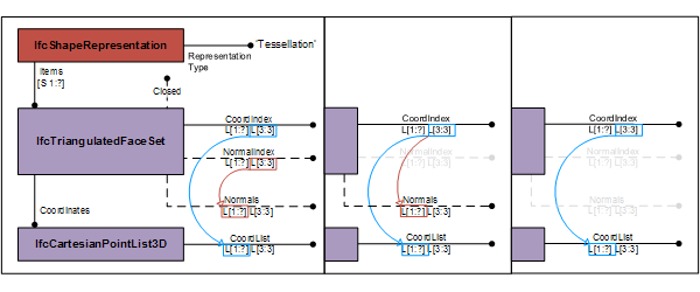
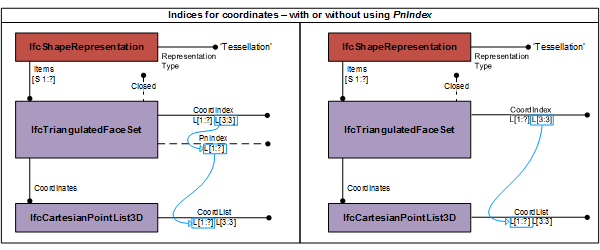
documentation updates to triangulation
including replacement of utdated figures

diff --git a/docs/schemas/resource/IfcGeometricModelResource/Entities/IfcTriangulatedFaceSet.md b/docs/schemas/resource/IfcGeometricModelResource/Entities/IfcTriangulatedFaceSet.md
@@ -1,6 +1,6 @@
 # IfcTriangulatedFaceSet
 
-The _IfcTriangulatedFaceSet_ is a tessellated face set with all faces being bound by triangles. The faces are constructed by implicit polylines defined by three Cartesian points. Depending on the value of the attribute _Closed_ the instance of _IfcTriangulatedFaceSet_ represents:
+The _IfcTriangulatedFaceSet_ is a tessellated face set with all faces being bound by triangles. The faces are constructed by implicit polylines defined by three Cartesian points. Depending on the value of the inherited attribute _Closed_ the instance of _IfcTriangulatedFaceSet_ represents:
 
 * if TRUE, a boundary represention (or B-rep);
 * if FALSE, a face based surface representation.
@@ -12,11 +12,11 @@ The coordinates of each point are provided by a one-based index into an ordered 
 
 Depending on the provision of _PnIndex_ the indices point either directly into the _IfcCartesianPointList3D_ referenced by _Coordinates_ defined at the supertype _IfcTessellatedFaceSet_, or they point into the _PnIndex_ where the integer values at that position provides the location of the coordinate values within the _IfcCartesianPointList3D_. See Figure 1 for the handling of point index.
 
-!["PnIndex"](../../../../figures/ifctriangulatedfaceset_03.png "Figure 1 &mdash; Use of _PnIndex_")
+!["IfcTriangulatedFaceSet_01"](../../../../figures/ifctriangulatedfaceset_03.png "Figure 1 &mdash; Use of _PnIndex_")
 
 See Figure 2 for using the _IfcTriangulatedFaceSet_ without (as default) and with using the _PnIndex_.
 
-!["IfcTriangulatedFaceSet_01"](../../../../figures/ifctriangulatedfaceset_01.png "Figure 2 &mdash; Triangulated face set")
+!["IfcTriangulatedFaceSet_02"](../../../../figures/ifctriangulatedfaceset_01.png "Figure 2 &mdash; Triangulated face set")
 
 Optionally normals can be provided. Only normals per vector are supported allowing for visually curved triangles when the three normals of the corresponding three vertices of a triangle are not co-linear to the normal of the triangular face. If they are identical, normals shall be omited.
 
@@ -24,7 +24,7 @@ Optionally normals can be provided. Only normals per vector are supported allowi
 
 Normals are provided by the two-dimensional list _Normals_, where
 
-* the first dimension of the two-dimensional list addresses the corresponding list of vertex indices of the triangular faces; 
+* the first dimension of the two-dimensional list addresses the corresponding list of vertex indices of the triangular faces;
 * the second dimension of the two-dimensional list provides exactly three real values to determine the direction of the normal at this vertex of the triangle.
 
 The indices in the _CoordIndex_ point into the list of _Normals_. The indices of _CoordIndex_ are applied to both points, either directly directly, or via the _PnIndex_ and normals. See Figure 3 for handling of normals.
@@ -61,7 +61,7 @@ Figure 4 shows the use of _IfcTriangulatedFaceSet_ without annotation. The diagr
 { .spec-head}
 Informal Propositions:
 
-1. If _Closed_ = TRUE, the same topological constraints as imposed by an faceted boundary representation shall be safisfied. In particular: 
+1. If _Closed_ = TRUE, the same topological constraints as imposed by an faceted boundary representation shall be safisfied. In particular:
     * each face shall be unique;
     * each edge shall be used by exactly two boundaries of faces;
     * the topological normal at each point on the boundary of the triangulated face set shall point away from the mater ial of the solid.
@@ -69,16 +69,13 @@ Informal Propositions:
 ## Attributes
 
 ### Normals
-An ordered list of three directions for normals. It is a two-dimensional list of directions provided by three parameter 
+An ordered list of three directions for normals. It is a two-dimensional list of directions provided by three parameter
 values.
 * The first dimension corresponds to the vertex indices of the _Coordindex_
 * The second dimension has exactly three values, [1] the x-direction, [2] the y-direction and [3] the z-directions
 
-### Closed
-Indication whether the _IfcTriangulatedFaceSet_ is a closed shell or not. If omited no such information can be provided.
-
 ### CoordIndex
-Two-dimensional list for the indexed-based triangles, where 
+Two-dimensional list for the indexed-based triangles, where
 * The first dimension represents the triangles (from 1 to N)
 * The second dimension has exactly three values representing the indices to three vertex points (from 1 to 3).
 

diff --git a/docs/schemas/resource/IfcGeometricModelResource/Entities/IfcPolygonalFaceSet.md b/docs/schemas/resource/IfcGeometricModelResource/Entities/IfcPolygonalFaceSet.md
@@ -2,14 +2,13 @@
 
 The _IfcPolygonalFaceSet_ is a tessellated face set with all faces being bound by polygons. The planar faces are constructed by implicit polylines defined by three or more Cartesian points. Each planar face is defined by an instance of _IfcIndexedPolygonalFace_, or in case of faces with inner loops by _IfcIndexedPolygonalFaceWithVoids_.
 
-Depending on the value of the attribute _Closed_ the instance of _IfcPolygonalFaceSet_ represents:
+Depending on the value of the inherited attribute _Closed_ the instance of _IfcPolygonalFaceSet_ represents:
 
-* if TRUE, a boundary represention (or B-rep);
+* if TRUE, a boundary representation (or B-rep);
 * if FALSE, a face based surface representation.
 
-
-
-The attribute _Faces_ refers to a list of _IfcIndexedPolygonalFace_'s having an one-based _CoordIndex_ that provides three or more indices. If the face has inner loops, the _IfcIndexedPolygonalFaceWithVoids_ has a two-dimensional, one-based list, where:* the first dimension of the two-dimensional list addresses the list of inner loops;
+The attribute _Faces_ refers to a list of _IfcIndexedPolygonalFace_'s having an one-based _CoordIndex_ that provides three or more indices. If the face has inner loops, the _IfcIndexedPolygonalFaceWithVoids_ has a two-dimensional, one-based list, where:
+* the first dimension of the two-dimensional list addresses the list of inner loops;
 * the second dimension of the two-dimensional list provides three or more indices each being a vertex of the planar polygon representing the inner loop.
 
 Depending on the provision of _PnIndex_ the indices point either directly into the _IfcCartesianPointList3D_ referenced by _Coordinates_ defined at the supertype _IfcTessellatedFaceSet_, or they point into the _PnIndex_ where the integer values at that position provides the location of the coordinate values within the _IfcCartesianPointList3D_. See Figure 1 for the handling of point index.
@@ -26,12 +25,12 @@ Depending on the provision of _PnIndex_ the indices point either directly into t
  <td>
   <p>Figure 2 shows an <em>IfcFacetedFaceSet</em> represented by<br><br></p>
 <tt class="spf">
-#1 <em>IfcIndexedPolygonalFace</em>: ((1, 2, 3, 4)
-#2 <em>IfcIndexedPolygonalFace</em>: ((6, 2, 3, 7)
-#3 <em>IfcIndexedPolygonalFace</em>: ((7, 3, 4, 8)
-#4 <em>IfcIndexedPolygonalFace</em>: ((8, 4, 1, 5)
-#5 <em>IfcIndexedPolygonalFace</em>: ((1, 4, 3, 2)
-#6 <em>IfcIndexedPolygonalFace</em>: ((6, 7, 8, 5)
+#1 <em>IfcIndexedPolygonalFace</em>: ((1, 2, 6, 5)<br/>
+#2 <em>IfcIndexedPolygonalFace</em>: ((6, 2, 3, 7)<br/>
+#3 <em>IfcIndexedPolygonalFace</em>: ((7, 3, 4, 8)<br/>
+#4 <em>IfcIndexedPolygonalFace</em>: ((8, 4, 1, 5)<br/>
+#5 <em>IfcIndexedPolygonalFace</em>: ((1, 4, 3, 2)<br/>
+#6 <em>IfcIndexedPolygonalFace</em>: ((6, 7, 8, 5)<br/>
 #7 <em>IfcCartesianPointList3D</em>: ((0.,0.,0.), (1.,0.,0.), (1.,1.,0.), (0.,1.,0.), (0.,0.,2.), (1.,0.,2.), (1.,1.,2.), (0.,1.,2.))
 </tt>
   </td>
@@ -49,15 +48,12 @@ Depending on the provision of _PnIndex_ the indices point either directly into t
 { .spec-head}
 Informal Propositions:
 
-1. If _Closed_ = TRUE, the same topological constraints as imposed by an faceted boundary representation shall be safisfied. In particular: 
+1. If _Closed_ = TRUE, the same topological constraints as imposed by an faceted boundary representation shall be safisfied. In particular:
     * each face shall be unique;
     * each edge shall be used by exactly two outer or inner boundaries of faces;
     * the topological normal at each point on the boundary of the polygonal face set shall point away from the material of the solid.
 
 ## Attributes
-
-### Closed
-Indication whether the _IfcPolygonalFaceSet_ is a closed shell or not. If omited no such information can be provided.
 
 ### Faces
 The list of polygonal faces, with or without inner loops, that bound the faceted face set.

diff --git a/docs/schemas/resource/IfcGeometricModelResource/Entities/IfcBlock.md b/docs/schemas/resource/IfcGeometricModelResource/Entities/IfcBlock.md
@@ -25,8 +25,8 @@ direction of the X, Y, and Z axis.</p>
 </table>
 
 { .extDef}
-> NOTE&nbsp; Definition according to ISO/CD 10303-42:1992  
-> A block is a solid rectangular parallelepiped, defined with a location and placement coordinate system. The block is specified by the positive lengths x, y, and z along the axes of the placement coordinate system, and has one vertex at the origin of the placement coordinate system.
+> NOTE&nbsp; Definition according to ISO 10303-42
+> A block is a type of geometric representation item which is a solid rectangular parallelepiped, defined with a location and placement coordinate system. The block is specified by the positive lengths x, y, and z along the axes of the placement coordinate system, and has one vertex at the origin of the placement coordinate system.
 
 > NOTE&nbsp; Entity adapted from **block** defined in ISO 10303-42.
 
